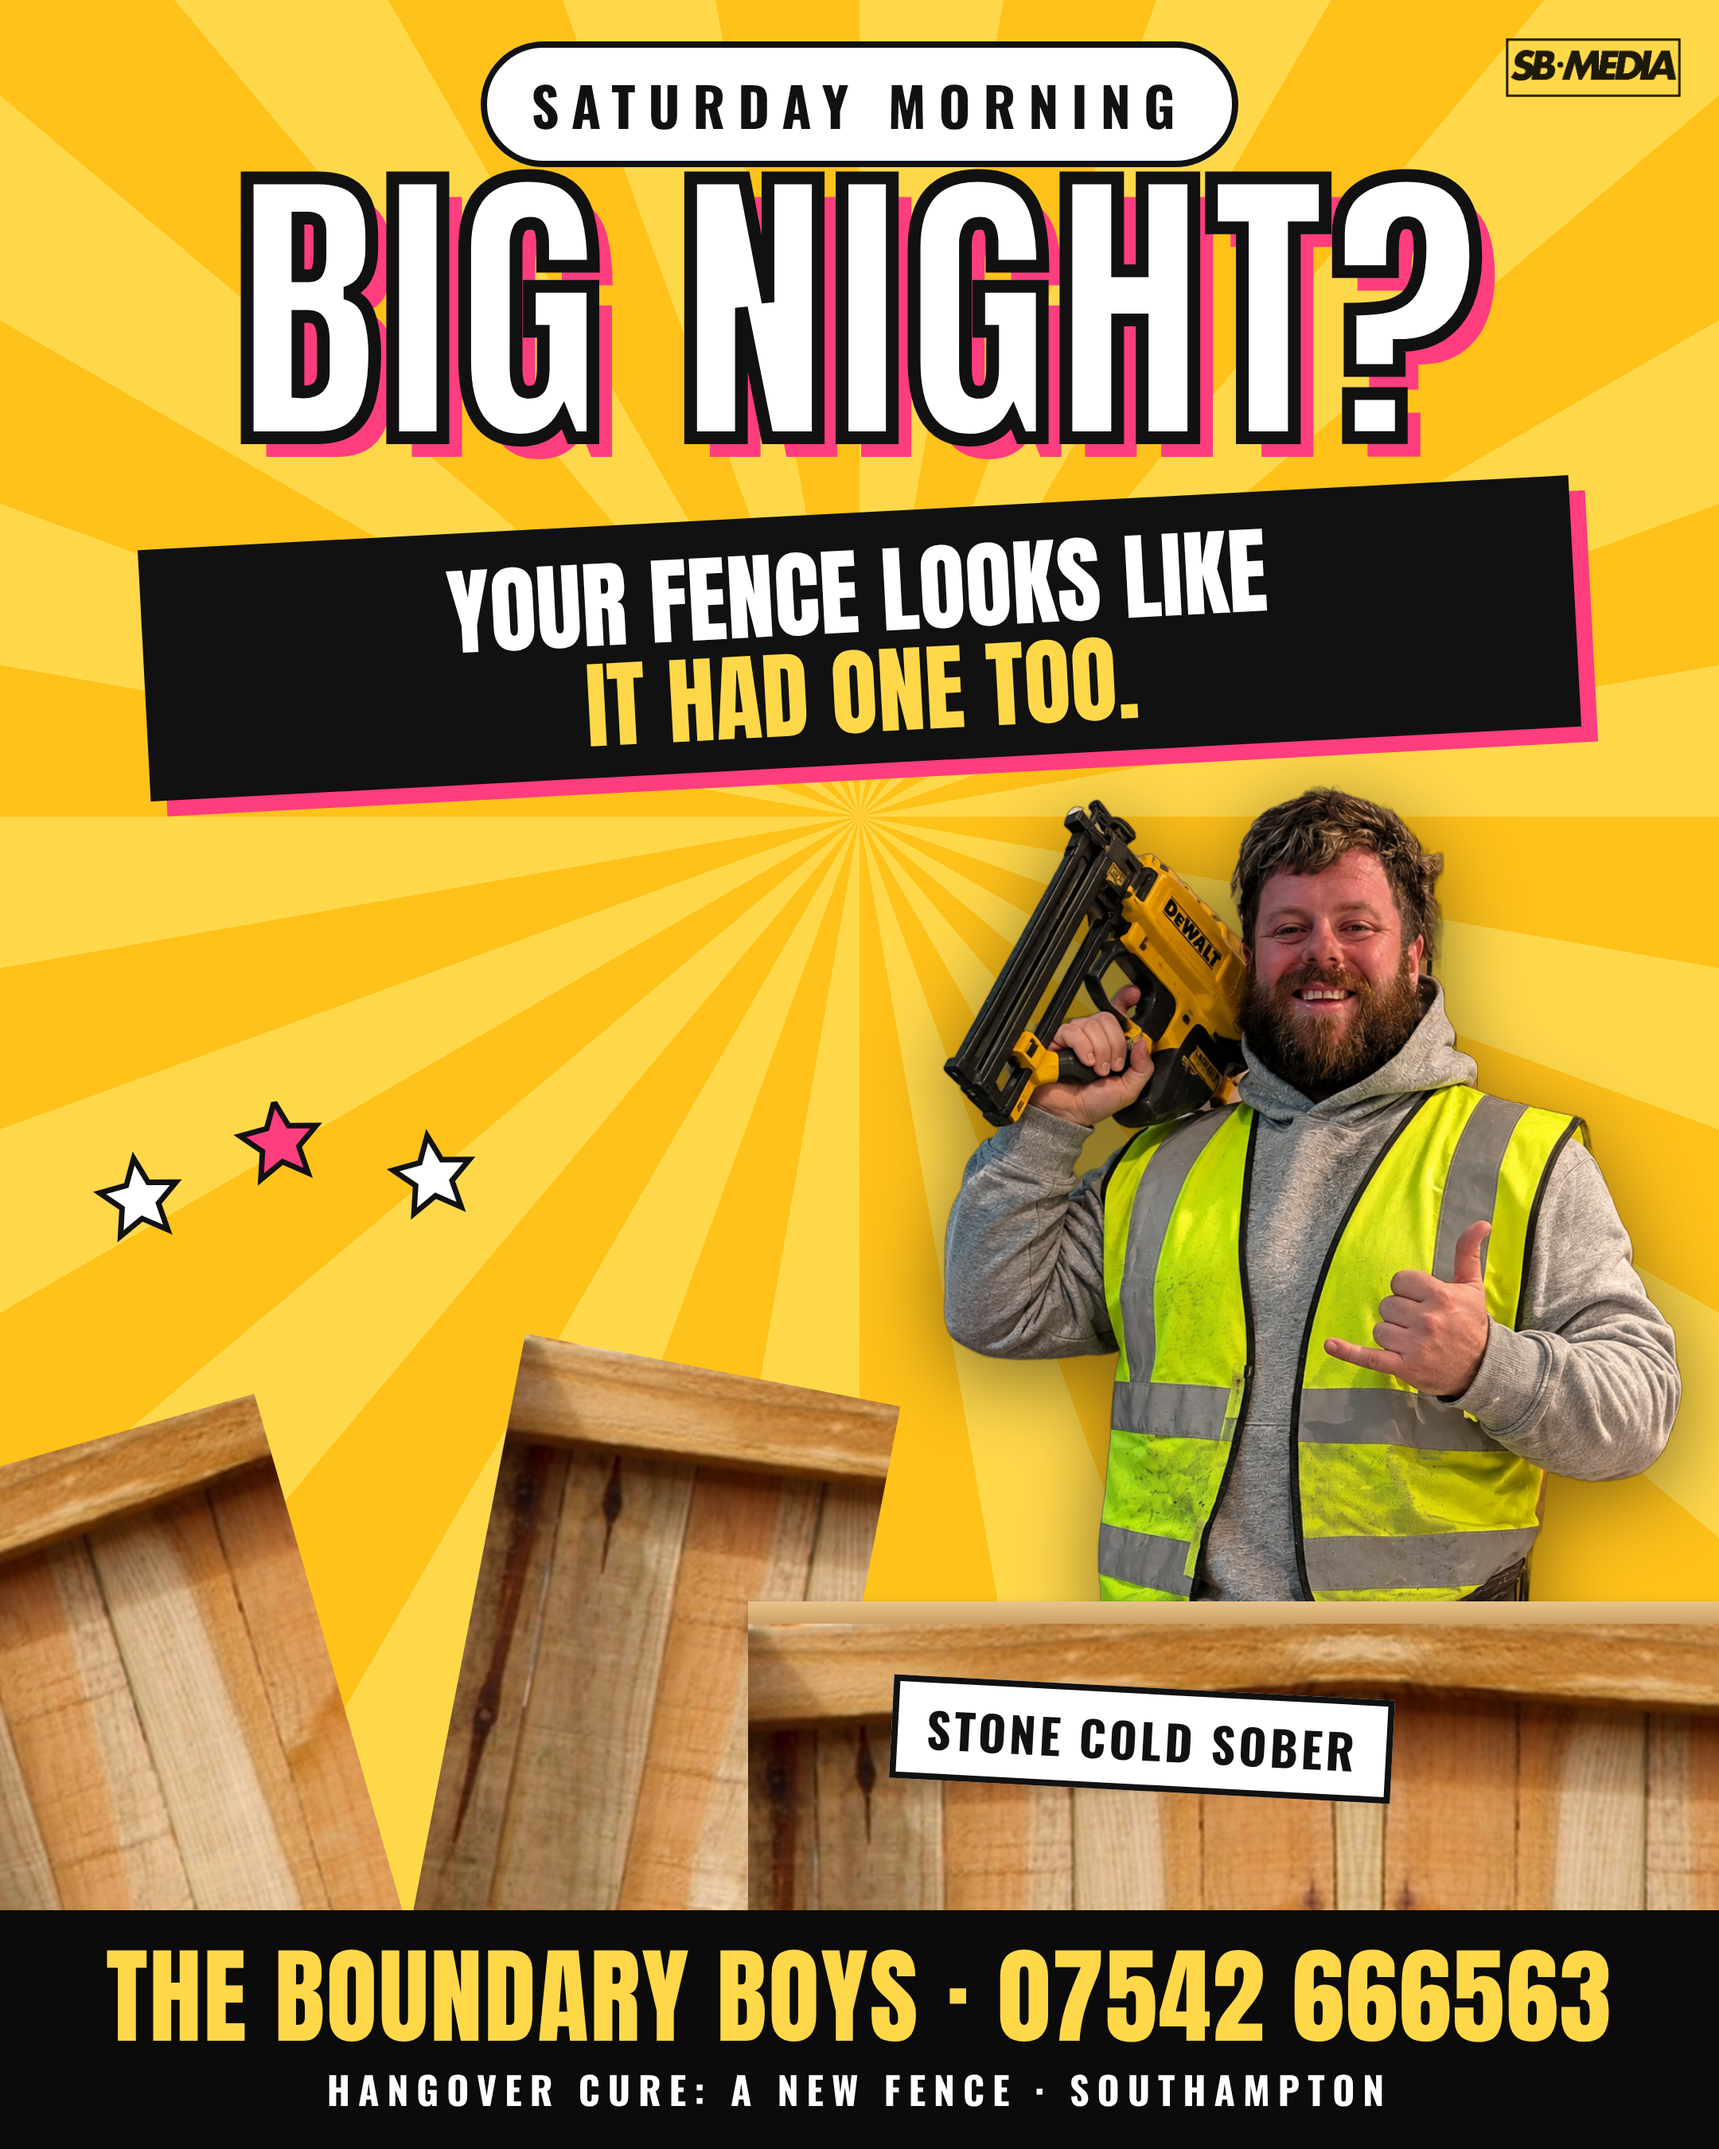
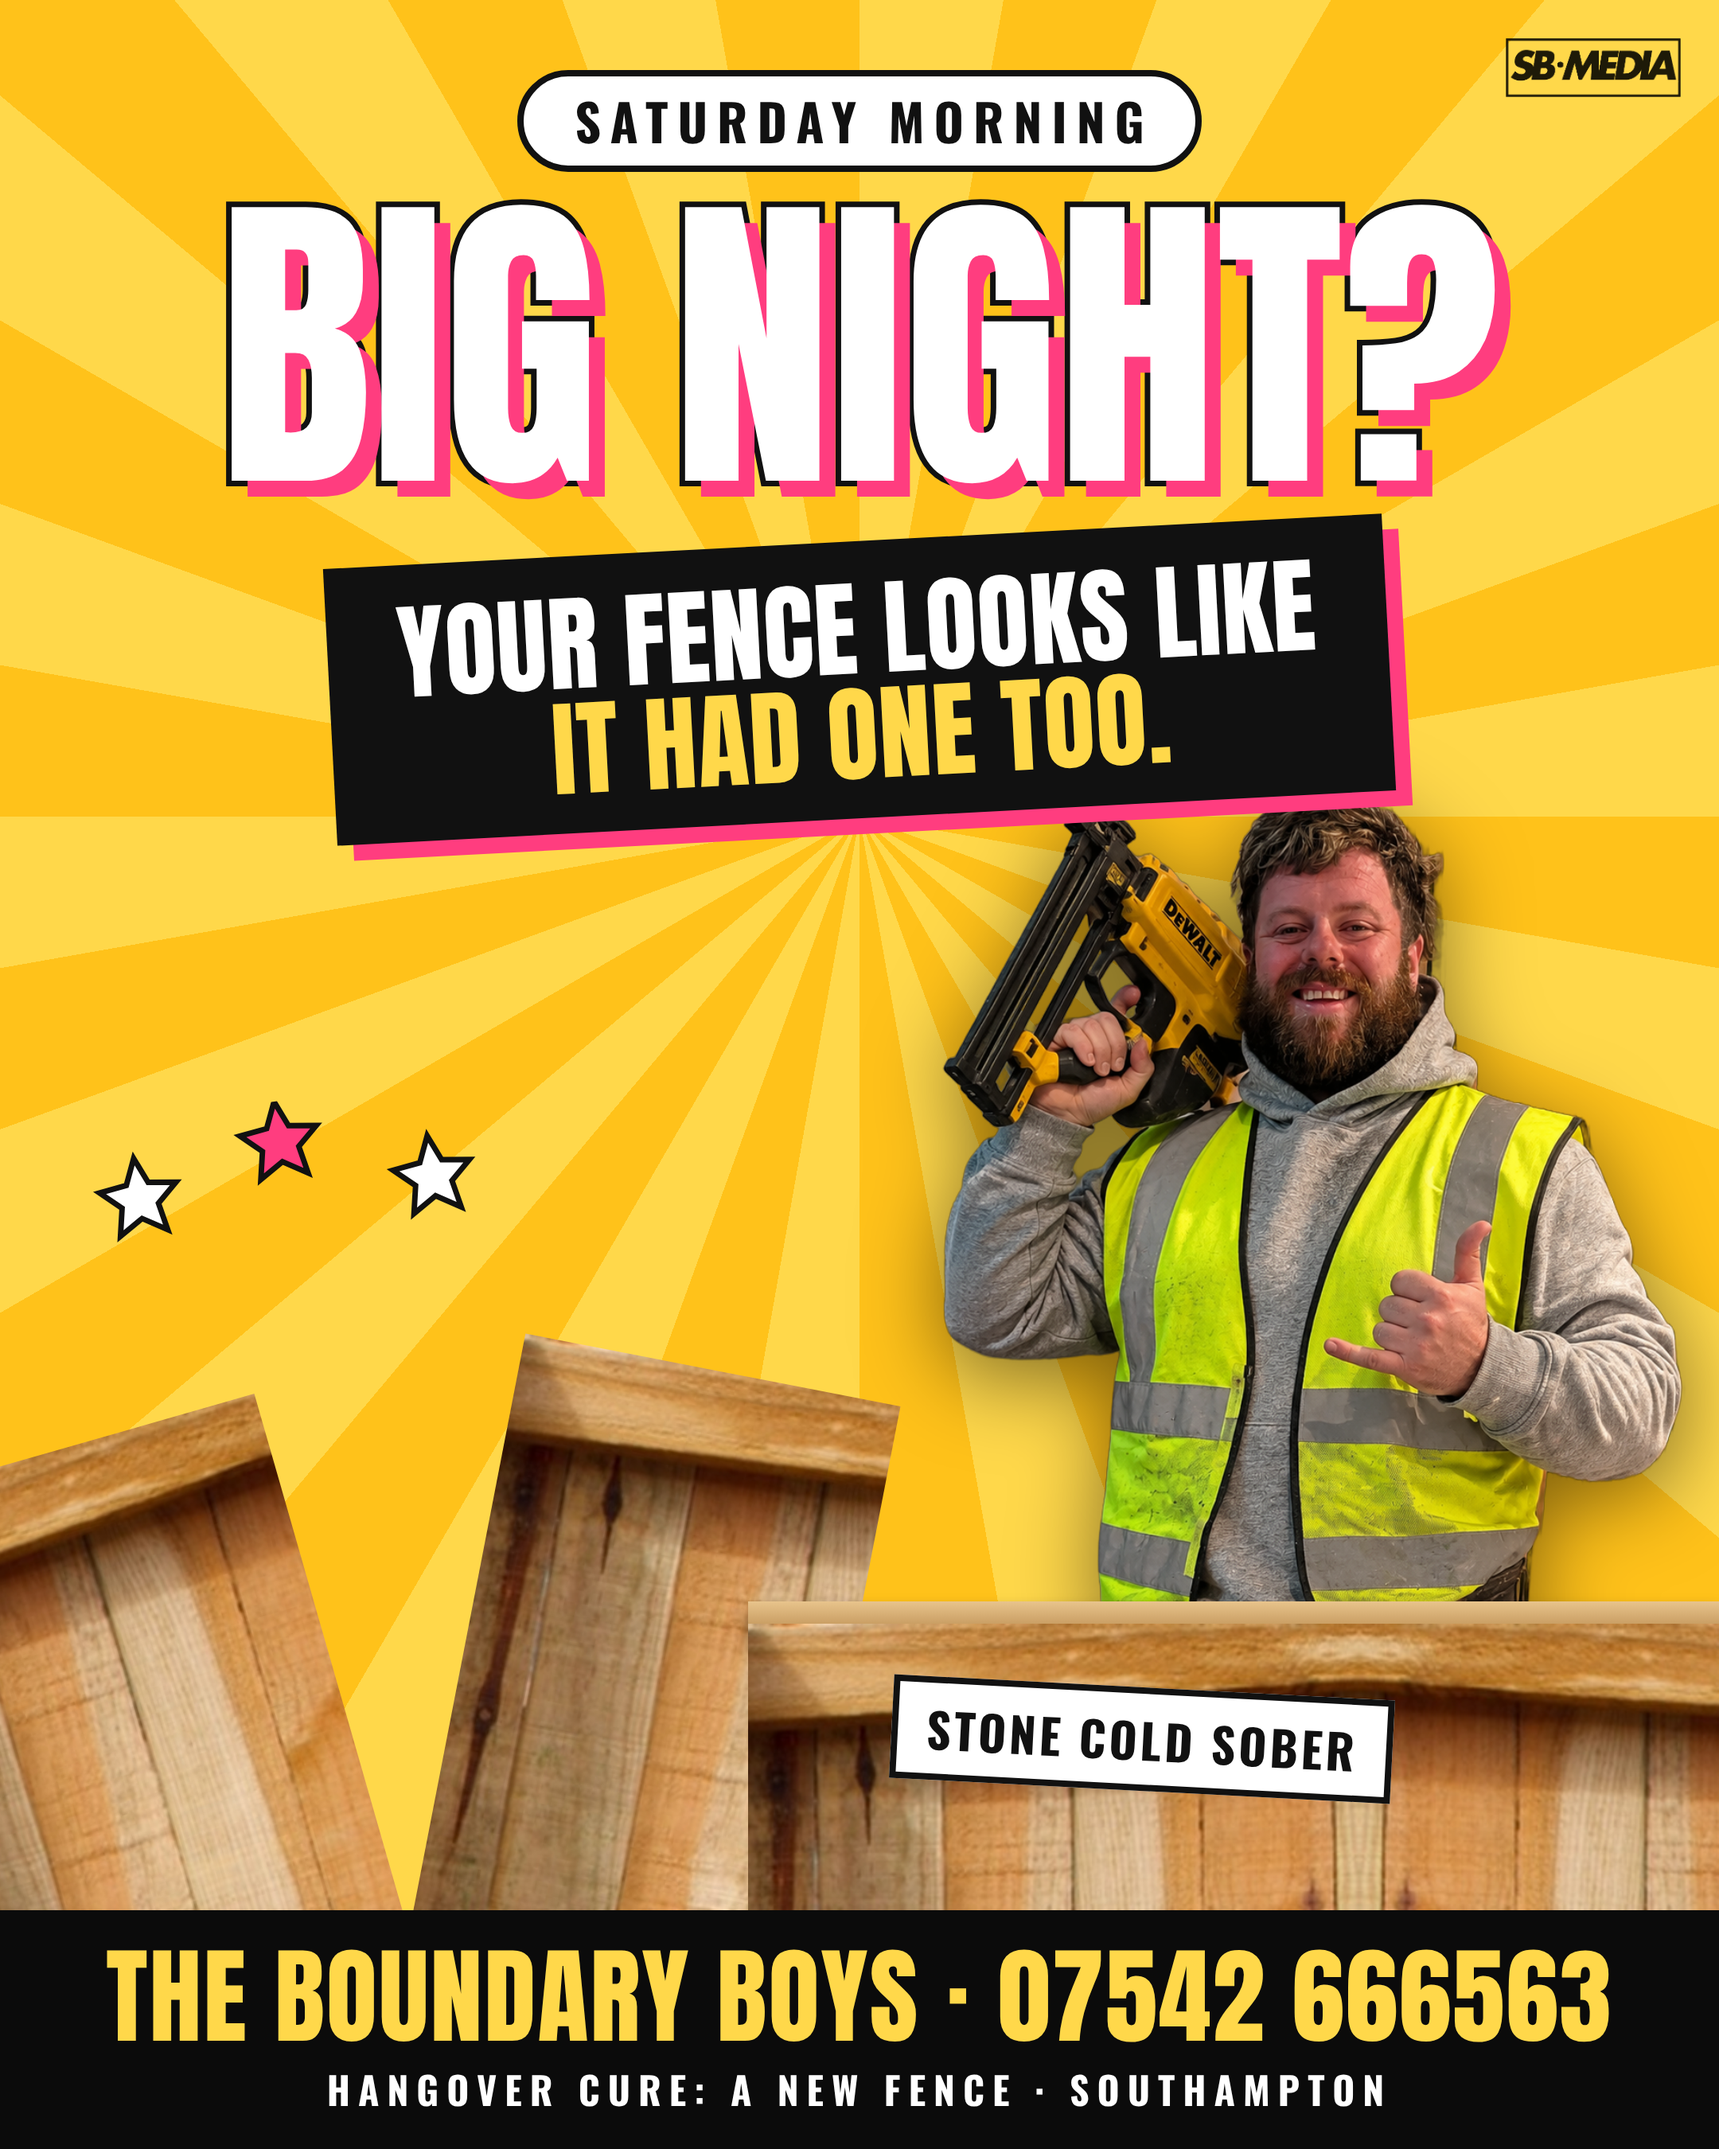
Tighten spacing on the Saturday morning post
Claude-Session: https://claude.ai/code/session_01Rq6TRjXg8vNgUrSz3Z5WjU

Changed region(s): [[0.062, 0.0, 0.9306, 0.4044]]

diff --git a/marketing/graphics/daily.html b/marketing/graphics/daily.html
@@ -36,10 +36,9 @@ body{background:#333;display:flex;flex-wrap:wrap;gap:40px;padding:40px;font-fami
 .rc{display:flex;justify-content:space-between}
 </style></head><body>
 <div class="p" id="2026-11-14-big-night" style="background:repeating-conic-gradient(from 0deg at 50% 38%,#FFD84A 0 10deg,#ffc21a 10deg 20deg)">
-<div class="t" style="top:40px"><span style="background:#fff;color:#111;font:700 34px Oswald;letter-spacing:8px;padding:10px 28px;border:4px solid #111;border-radius:40px">SATURDAY MORNING</span></div>
-<div class="t" style="top:100px;font:400 190px/1 Anton;color:#fff;-webkit-text-stroke:8px #111;text-shadow:12px 12px 0 #ff3d7f;letter-spacing:2px">BIG NIGHT?</div>
-<div class="abs" style="left:90px;right:90px;top:322px;background:#111;color:#fff;transform:rotate(-3deg);text-align:center;padding:18px 10px 14px;z-index:6;box-shadow:10px 10px 0 #ff3d7f">
-  <div style="font:400 60px/1.05 Anton;text-transform:uppercase">Your fence looks like<br><span style="color:#FFD84A">it had one too.</span></div></div>
+<div class="t" style="top:44px"><span style="background:#fff;color:#111;font:700 32px/1 Oswald;letter-spacing:6px;padding:12px 26px 12px 32px;border:4px solid #111;border-radius:40px;display:inline-block">SATURDAY MORNING</span></div>
+<div class="t" style="top:126px;font:400 200px/.92 Anton;color:#fff;-webkit-text-stroke:7px #111;paint-order:stroke fill;text-shadow:10px 10px 0 #ff3d7f">BIG NIGHT?</div>
+<div class="t" style="top:340px;z-index:6"><div style="display:inline-block;background:#111;color:#fff;transform:rotate(-3deg);padding:22px 44px 20px;box-shadow:10px 10px 0 #ff3d7f;font:400 66px/1 Anton;text-transform:uppercase;letter-spacing:.5px">Your fence looks like<br><span style="color:#FFD84A">it had one too.</span></div></div>
 <svg viewBox="0 0 260 80" style="position:absolute;left:40px;top:690px;width:300px;z-index:6;transform:rotate(-8deg)"><path d="M40 20 l6 14 15 2 -11 10 3 15 -13 -8 -13 8 3 -15 -11 -10 15 -2 z" fill="#fff" stroke="#111" stroke-width="3"/><path d="M120 0 l6 14 15 2 -11 10 3 15 -13 -8 -13 8 3 -15 -11 -10 15 -2 z" fill="#ff3d7f" stroke="#111" stroke-width="3"/><path d="M200 30 l6 14 15 2 -11 10 3 15 -13 -8 -13 8 3 -15 -11 -10 15 -2 z" fill="#fff" stroke="#111" stroke-width="3"/></svg>
 <div class="fz" style="left:-60px;top:860px;width:330px;height:400px;z-index:2;transform:rotate(-16deg);transform-origin:right bottom"></div>
 <div class="fz" style="left:250px;top:830px;width:240px;height:420px;z-index:2;transform:rotate(11deg);transform-origin:left bottom"></div>

diff --git a/marketing/graphics/build_daily.py b/marketing/graphics/build_daily.py
@@ -9,10 +9,9 @@ here = pathlib.Path(__file__).parent
 stars = "".join(f'<path d="M{x} {y} l6 14 15 2 -11 10 3 15 -13 -8 -13 8 3 -15 -11 -10 15 -2 z" fill="{c}" stroke="#111" stroke-width="3"/>'
                 for x, y, c in ((40, 20, "#fff"), (120, 0, "#ff3d7f"), (200, 30, "#fff")))
 P = [("2026-11-14-big-night", "background:repeating-conic-gradient(from 0deg at 50% 38%,#FFD84A 0 10deg,#ffc21a 10deg 20deg)", f"""
-<div class="t" style="top:40px"><span style="background:#fff;color:#111;font:700 34px Oswald;letter-spacing:8px;padding:10px 28px;border:4px solid #111;border-radius:40px">SATURDAY MORNING</span></div>
-<div class="t" style="top:100px;font:400 190px/1 Anton;color:#fff;-webkit-text-stroke:8px #111;text-shadow:12px 12px 0 #ff3d7f;letter-spacing:2px">BIG NIGHT?</div>
-<div class="abs" style="left:90px;right:90px;top:322px;background:#111;color:#fff;transform:rotate(-3deg);text-align:center;padding:18px 10px 14px;z-index:6;box-shadow:10px 10px 0 #ff3d7f">
-  <div style="font:400 60px/1.05 Anton;text-transform:uppercase">Your fence looks like<br><span style="color:#FFD84A">it had one too.</span></div></div>
+<div class="t" style="top:44px"><span style="background:#fff;color:#111;font:700 32px/1 Oswald;letter-spacing:6px;padding:12px 26px 12px 32px;border:4px solid #111;border-radius:40px;display:inline-block">SATURDAY MORNING</span></div>
+<div class="t" style="top:126px;font:400 200px/.92 Anton;color:#fff;-webkit-text-stroke:7px #111;paint-order:stroke fill;text-shadow:10px 10px 0 #ff3d7f">BIG NIGHT?</div>
+<div class="t" style="top:340px;z-index:6"><div style="display:inline-block;background:#111;color:#fff;transform:rotate(-3deg);padding:22px 44px 20px;box-shadow:10px 10px 0 #ff3d7f;font:400 66px/1 Anton;text-transform:uppercase;letter-spacing:.5px">Your fence looks like<br><span style="color:#FFD84A">it had one too.</span></div></div>
 <svg viewBox="0 0 260 80" style="position:absolute;left:40px;top:690px;width:300px;z-index:6;transform:rotate(-8deg)">{stars}</svg>
 {fence(-60, 860, 330, 400, z=2, extra="transform:rotate(-16deg);transform-origin:right bottom", cap=False)}
 {fence(250, 830, 240, 420, z=2, extra="transform:rotate(11deg);transform-origin:left bottom", cap=False)}
